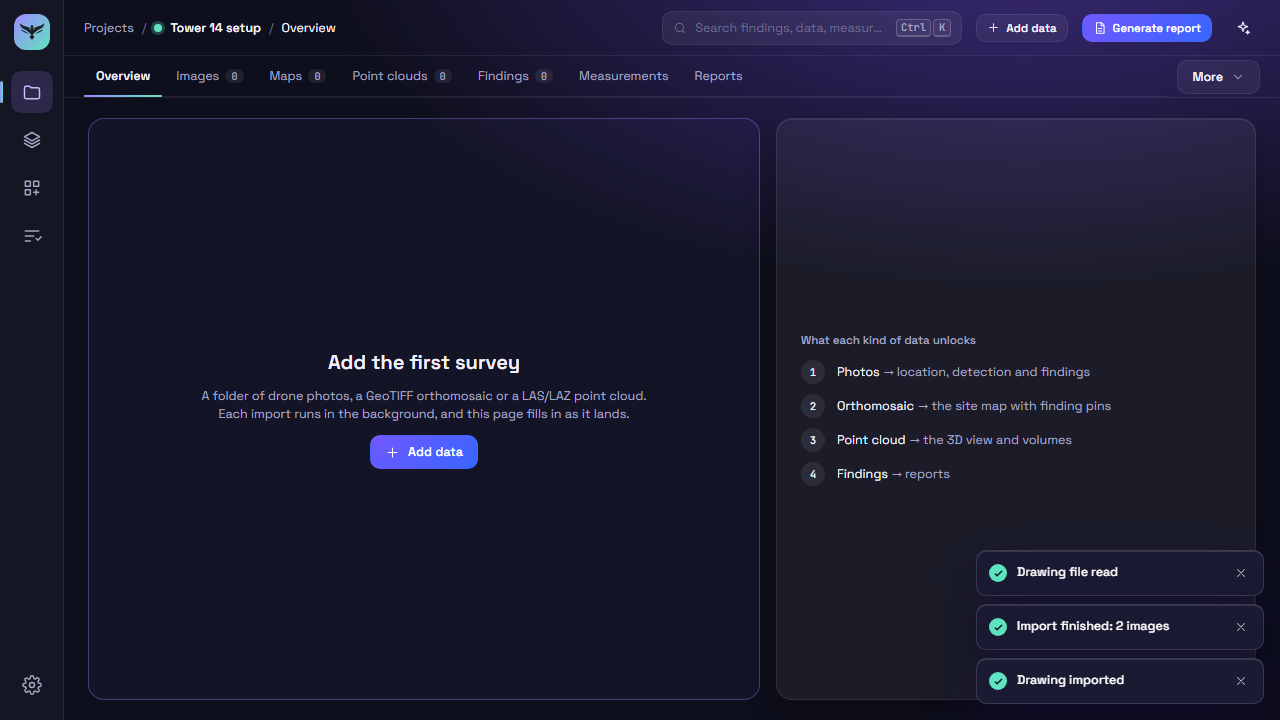
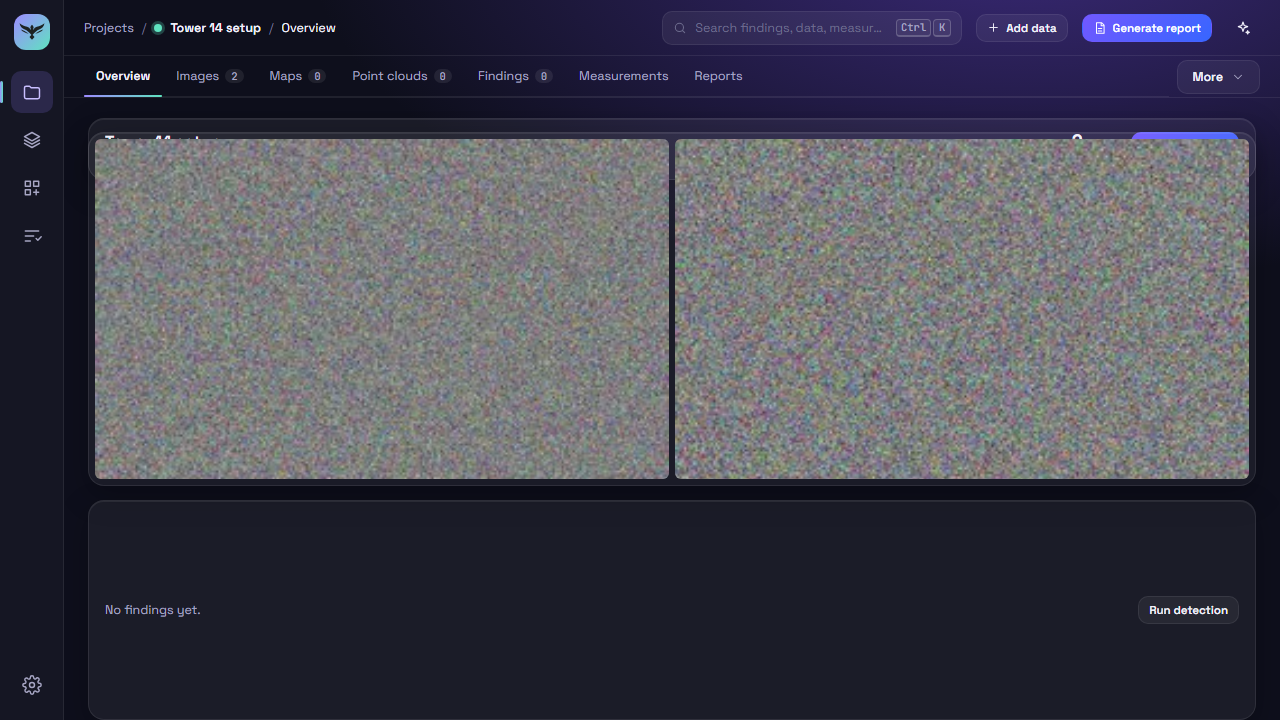
docs(setup): re-capture the evidence shots, caption them, final gate line, follow-ups

diff --git a/frontend/e2e/setup-real-backend.spec.ts b/frontend/e2e/setup-real-backend.spec.ts
@@ -67,8 +67,10 @@ test("real backend: a vertical asset project from one delivery folder", async ({
   await expect(setupUi.slot(page, "Thermal photos")).toContainText("1");
   await expect(setupUi.slot(page, "Asset drawings")).toContainText("1");
   await expect(setupUi.sharedFolderNote(page)).toBeVisible();
+  if (process.env.E2E_CAPTURE_EVIDENCE === "1")
+    await setupUi.slot(page, "Visual photos").evaluate((el) => el.scrollIntoView({ block: "center" }));
   await entrancesDone(page);
-  await page.screenshot({ path: evidencePath("setup", "setup-sorted-real.png"), fullPage: true });
+  await page.screenshot({ path: evidencePath("setup", "setup-sorted-real.png") });
 
   const created = page.waitForResponse(
     (r) => new URL(r.url()).pathname === "/api/v1/projects" && r.request().method() === "POST",
@@ -119,6 +121,11 @@ test("real backend: a vertical asset project from one delivery folder", async ({
     VERTICAL_TYPES.map(([name, , , hotkey]) => [name, hotkey]),
   );
   await expect(setupUi.notice(page)).toHaveCount(0);
+  if (process.env.E2E_CAPTURE_EVIDENCE === "1") {
+    // Both jobs are done: reload so the Overview reads the landed data, then wait for it to show.
+    await page.reload();
+    await expect(page.getByRole("tab", { name: "Images 2" })).toBeVisible();
+  }
   await entrancesDone(page);
   await page.screenshot({ path: evidencePath("setup", "overview-after-create-real.png"), fullPage: true });
 

diff --git a/frontend/e2e/setup-journey.spec.ts b/frontend/e2e/setup-journey.spec.ts
@@ -263,8 +263,10 @@ test("setup journey: vertical template, visual and thermal in one folder, Create
   const w = await serveSetup(page);
   await setUp(page);
   await expect(setupUi.sharedFolderNote(page)).toBeVisible();
+  if (process.env.E2E_CAPTURE_EVIDENCE === "1")
+    await setupUi.slot(page, "Visual photos").evaluate((el) => el.scrollIntoView({ block: "center" }));
   await entrancesDone(page);
-  await page.screenshot({ path: evidencePath("setup", "setup-sorted.png"), fullPage: true });
+  await page.screenshot({ path: evidencePath("setup", "setup-sorted.png") });
 
   // The response, not the request: the fake records the POST in its route handler, which runs after
   // the request event fires, so only the response proves the build request is in `w.posted`.

diff --git a/docs/evidence/setup/walkthrough.md b/docs/evidence/setup/walkthrough.md
@@ -11,8 +11,13 @@ Every expected text below was checked against the merged code. You need:
 - for steps 15, 33 and 37, an orthomosaic GeoTIFF and a DSM GeoTIFF in one folder;
 - optionally a folder with a `.las`, a `.dwg`, an `.mp4` and a `Thumbs.db` (steps 12 and 13).
 
-Screenshots of the automated runs are next to this file (`setup-sorted.png`,
-`overview-after-create.png`, `setup-notice-failed.png`, and the `-real` pair from the real backend).
+Screenshots of the automated runs are next to this file:
+
+- `setup-sorted.png`: the Data card after sorting a delivery folder (mocked backend): Visual and Thermal photos each show `100MEDIA`, 2 photos, Ready; Asset drawings shows the PDF; the video is under Not used; the summary says 3 of 4 slots.
+- `overview-after-create.png`: the new project's Overview (mocked backend) right after Create, with imports starting ("Importing (+2)" in the header) and no setup notice.
+- `setup-notice-failed.png`: the Overview with "Setup: 1 import failed", Visual photos and Thermal photos each with the reason and a Retry.
+- `setup-sorted-real.png`: the same Data card sorted by the real backend (1 visual photo, 1 thermal photo, the drawing, 1 file not recognised).
+- `overview-after-create-real.png`: the real project's Overview after both imports finished and the page was reloaded: Images 2, the two photos shown, no setup notice. The Jobs card is not in the shot because the jobs had already finished.
 
 ## The page and its templates
 
@@ -49,7 +54,7 @@ Screenshots of the automated runs are next to this file (`setup-sorted.png`,
    Expect: the draft is intact; the result appears when the sort is done. **Discard draft** mid-sort
    cancels the sort.
 10. Drop or browse to a single photo file (not its folder).
-    Expect: the slot and the summary say "The whole folder <name> will be imported", before you create.
+    Expect: the slot and the summary say "The whole folder 100MEDIA will be imported", before you create.
 11. Drop more than 16 items.
     Expect: a notice says how many were left out and to drop the rest when the sort finishes.
 12. Drop a folder with a `.las`: 3D point cloud fills and the photo slots keep theirs. Drop a folder with
@@ -97,7 +102,7 @@ Screenshots of the automated runs are next to this file (`setup-sorted.png`,
 ## Create a project from a delivery folder
 
 24. With the Vertical template, a name, a folder and the sorted delivery folder, click **Create project**.
-    Expect: the new project's Overview opens straight away. For a moment "Setup: starting n imports…"
+    Expect: the new project's Overview opens straight away. For a moment "Setup: starting 3 imports…"
     may show; then it goes, and the Jobs card shows Import (and Drawing import) running.
 25. Open **Jobs**.
     Expect: one Import job for the photos folder (not two), and the drawing's jobs. At most 4 drawings
@@ -119,14 +124,14 @@ Screenshots of the automated runs are next to this file (`setup-sorted.png`,
     with the reason and a **Retry** on each. Rename the folder back and click **Retry** on either slot:
     the notice goes away and one Import job starts in Jobs.
 30. Start another project and drop a folder that holds the multi-page PDF, then create it.
-    Expect: "Setup: 1 drawing needs your choice" with the file name, "This PDF has n pages. Choose the
+    Expect: "Setup: 1 drawing needs your choice" with the file name, "This PDF has 12 pages. Choose the
     page to import." and **Finish drawing import**. Clicking it opens Add data, Drawing with the file
     already filled in; choose a page and import.
 31. With a notice showing, click **Dismiss** (the x), open another screen and come back.
     Expect: the notice stays gone; the jobs are unaffected.
 32. Drop a folder that holds more than 200 files for one non-photo slot, then create.
-    Expect: the notice names the rest even if nothing else needs you: "Setup: n files not started", with
-    "<n> more files in <folder> were not started — import them from the Maps tab" (Point clouds for a
+    Expect: the notice names the rest even if nothing else needs you: "Setup: 40 files not started", with
+    "40 more files in E:\Delivery\Plans were not started — import them from the Maps tab" (Point clouds for a
     point cloud).
 
 ## Other templates and choices
@@ -144,7 +149,7 @@ Screenshots of the automated runs are next to this file (`setup-sorted.png`,
     Expect: every import was still started (Jobs), and the Overview shows no failure.
 37. Put an orthomosaic GeoTIFF inside the photos folder (for example `DCIM\...\products\ortho.tif`),
     start a Mapping and survey project from the delivery folder and create it.
-    Expect: the Map import starts; the photos do not, and the Overview says "Photos in <folder> were
+    Expect: the Map import starts; the photos do not, and the Overview says "Photos in E:\Delivery\DCIM were
     not imported: the folder also holds GeoTIFFs, which a photo import would take as photos. Move the
     GeoTIFFs out of it, then Retry." Move the GeoTIFF out and click **Retry**: one Import job starts,
     and no GeoTIFF appears among the photos.
@@ -194,6 +199,8 @@ Items for later work, nothing here blocks S1.
 - U5 deferred: arrow keys on the template radio group; the catalogue picker is silent at 64 types; the
   overflow notice is lost when you leave mid-sort; duplicate bucket labels across DJI cards; the
   severity select shows "No default" for an out-of-scale default; e2e files need prettier.
-- U6 minors left as they are: a start after dismiss while an old run is still in flight could patch
-  colliding unit ids; the evidence screenshots are cropped to the viewport because the app scrolls
-  inside a container (see the task report).
+- `playwright.real-backend.config.ts` (the maps real-backend suite) still hard-codes the main
+  checkout's venv path; the setup config now walks up to the first `backend/.venv`.
+- U6 minors: a start after dismiss while an old run is still in flight could patch colliding unit ids;
+  `main()` of the e2e data script raises IndexError without an argument; the real-backend Catalogue
+  check has no hotkey or count-of-7 assertion.

diff --git a/docs/progress.md b/docs/progress.md
@@ -24,13 +24,13 @@ and Retry). Real backend (`pnpm -C frontend e2e:setup`, opt-in; built bundle + F
 data folder, ports 5852/5853): 1 passed, test 3.5 s, whole run 15.4 s; one source with 2 images, the
 one-page PDF built unattended, 7 types with hotkeys 1–7 on the project and in the Catalogue. The
 generated JPEGs are about 300–430 KB each (random noise, plan-mandated), in a temp dir. Screenshots in
-`docs/evidence/setup/` (taken at viewport height: the app scrolls inside a container, so the lower
-part of the page is not in the frame).
+`docs/evidence/setup/` (viewport-height shots: the sorted ones are scrolled to the Data card, the real
+Overview shot is taken after a reload with Images 2; captions in the walkthrough).
 
 **§13 success criteria.**
 | # | Evidence |
 | --- | --- |
-| 1 | real-backend journey + walkthrough steps 1–28 |
+| 1 | real-backend journey (sort, Create, one source with 2 images, the drawing built, 7 types with hotkeys, the Catalogue: walkthrough steps 2, 4, 7, 24–28) + walkthrough steps 1–28 |
 | 2 | U3's classifier tests (`backend/tests/test_setup_classify.py`: `test_raster_rules`, `test_a_raster_keeps_its_crs_and_a_tiff_photo_follows_its_name`, `test_a_sampled_photo_reads_one_header`, `test_video_is_coming_until_s4_flips_one_line`; `test_setup_classify_real.py`) + walkthrough steps 15 and 33 |
 | 3 | U3's header-read counting tests (`test_setup_inspect_sort.py`: `test_3000_dji_jpegs_open_only_20_headers`, `test_the_header_sample_is_per_folder`, `test_real_reader_opens_only_20_of_30_photos`); U6 reads no file in the frontend (budget) |
 | 4 | U2/U5 template tests (`test_setup_builtins.py`, `test_project_templates.py`; `frontend/src/setup/TemplateCard.test.tsx`: "choosing a template fills the slots and the types", "renames a saved template from its menu and reloads the list", "deletes a saved template after asking; …") + walkthrough steps 2–5 |
@@ -66,11 +66,12 @@ DSM named after the file (U6-2). Imports start one request at a time, drawings l
 - U5 `createProject.ts` (and its test) is replaced by `useCreateProject` and deleted.
 - U5 `model.ts`, `Checklist`, `SummaryCard`, `SlotGrid`, `TypeRow`, `draftStore` and `remap` changed in Task 12 and the fix wave (Create held while sorting, whole-folder note, truncated wording, severity rules in TypeRow, rule problems hold Create).
 
-**Gate (gate1 at e194ab58, suites one at a time; run by the controller; the controller updates this
-line if the final gate differs):** contract check ok; ruff check + format ok; pytest 5170 passed, 17
-skipped, 17 deselected; frontend lint + tokens ok; vitest 585 files / 4109 tests passed; build ok; e2e
-179 passed, 2 skipped (ports 5850/5851; `setup-real-backend` is one of them); `cargo test` skipped (no
-frozen sidecar). The two setup specs were re-run on `0e7335a5` as above.
+**Gate (final, gate2 at 232b1da6, suites one at a time, run by the controller):** contract check ok;
+ruff check + format ok; pytest 5170 passed, 17 skipped, 17 deselected; frontend lint + tokens ok;
+vitest 585 files / 4114 tests passed; build ok; e2e 179 passed, 2 skipped (ports 5850/5851;
+`setup-real-backend` is one of them); `cargo test` skipped (no frozen sidecar). Evidence re-run after
+the screenshot fix: `setup-journey.spec.ts` 2 passed (14.7 s, 5850/5851); `e2e:setup` 1 passed (test
+3.4 s, run 15.2 s, 5852/5853); each also run with `E2E_CAPTURE_EVIDENCE=1`.
 
 **Follow-ups.**
 - A skipped photo bucket nested in (or sharing) a dispatched photo folder is still imported, because photo import is per folder; the page does not say so.
@@ -81,7 +82,8 @@ frozen sidecar). The two setup specs were re-run on `0e7335a5` as above.
 - A legacy migrated type with a non-hex colour makes ensure answer 500 (`TypeConflict.colour` must be hex).
 - Quiet-ignore DJI sidecars (`.MRK .nav .obs .bin .SRT`) and `Thumbs.db` instead of listing them as Not recognised; drop `samples` for non-image buckets (worst case about 5–8 MB).
 - U5 deferred: template radiogroup arrow keys; catalogue picker silent at 64 types; overflow notice lost on leave mid-sort; duplicate bucket labels across DJI cards; severity select "No default" for an out-of-scale default; e2e prettier.
-- U6 minors: a start after dismiss while an old run is in flight could patch colliding unit ids; `main()` of the e2e data script raises IndexError without an argument; the real-backend Catalogue check has no hotkey or count-of-7 assertion; the evidence screenshots are viewport-height only.
+- `playwright.real-backend.config.ts` (maps real-backend suite) still hard-codes the main checkout's venv path; the setup config now walks up to the first `backend/.venv`.
+- U6 minors: a start after dismiss while an old run is in flight could patch colliding unit ids; `main()` of the e2e data script raises IndexError without an argument; the real-backend Catalogue check has no hotkey or count-of-7 assertion.
 
 **Left for the operator:** the walkthrough, including "Checks only you can do". No installer was
 built (programme ruling R9).
